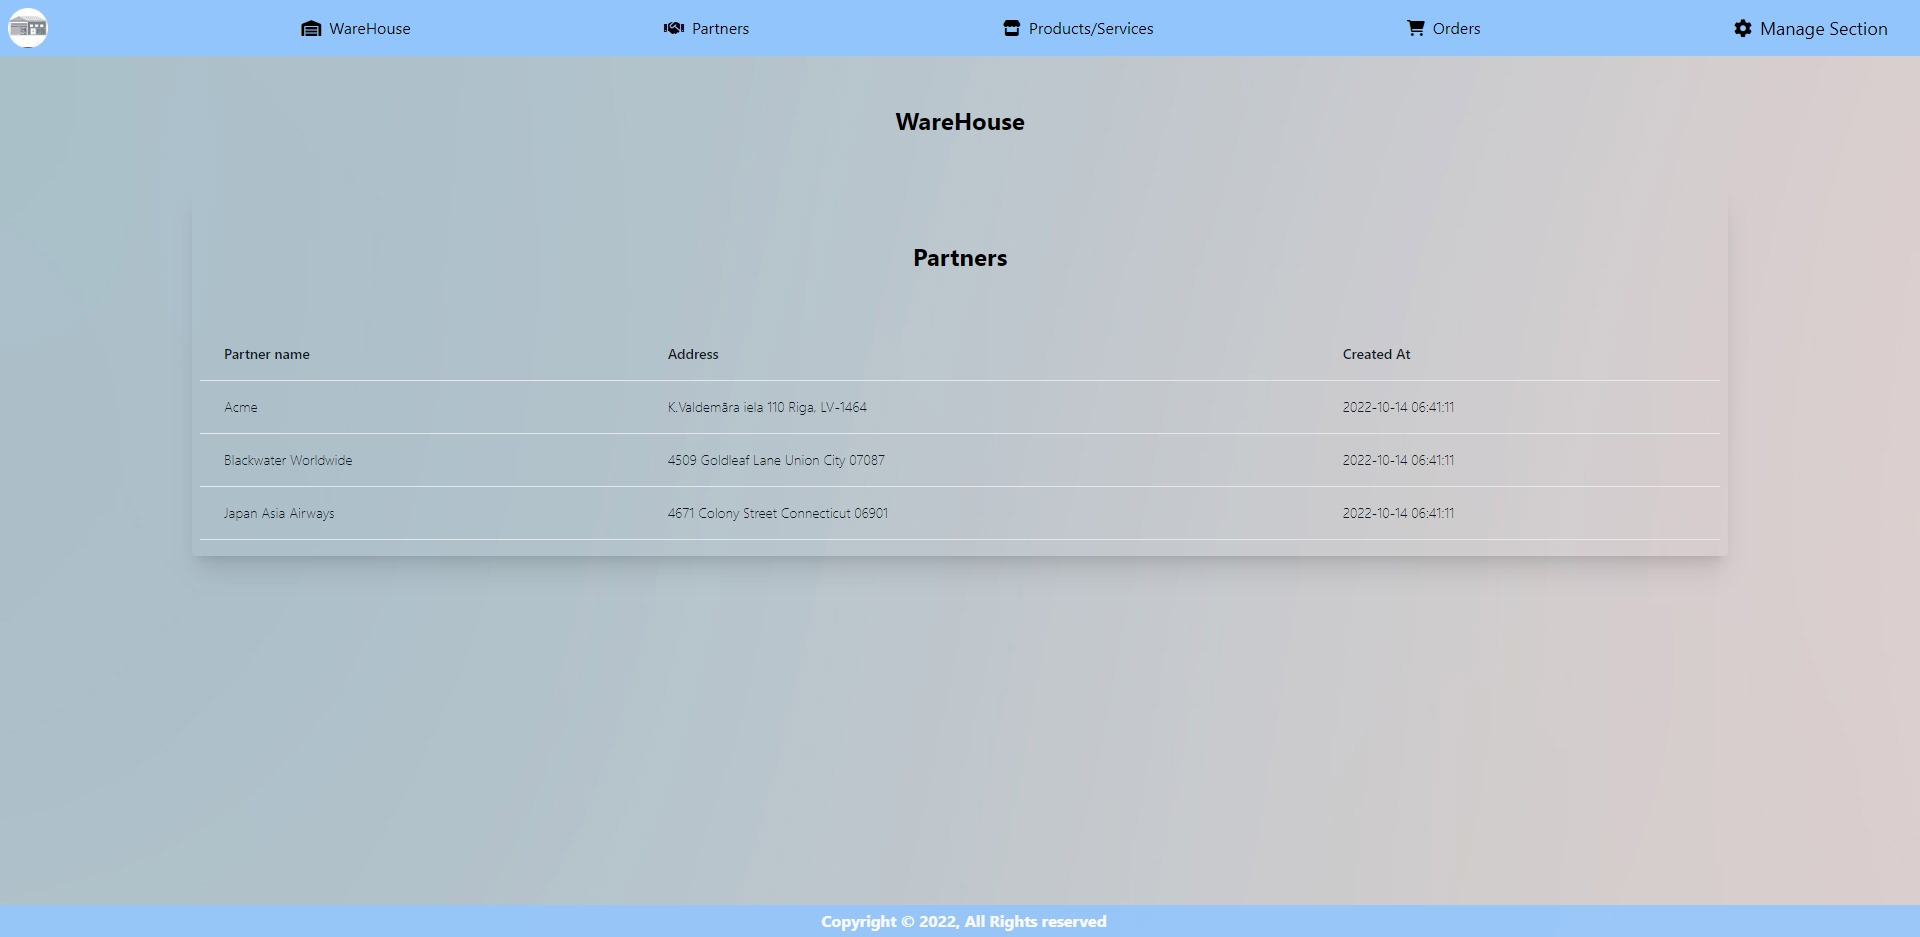
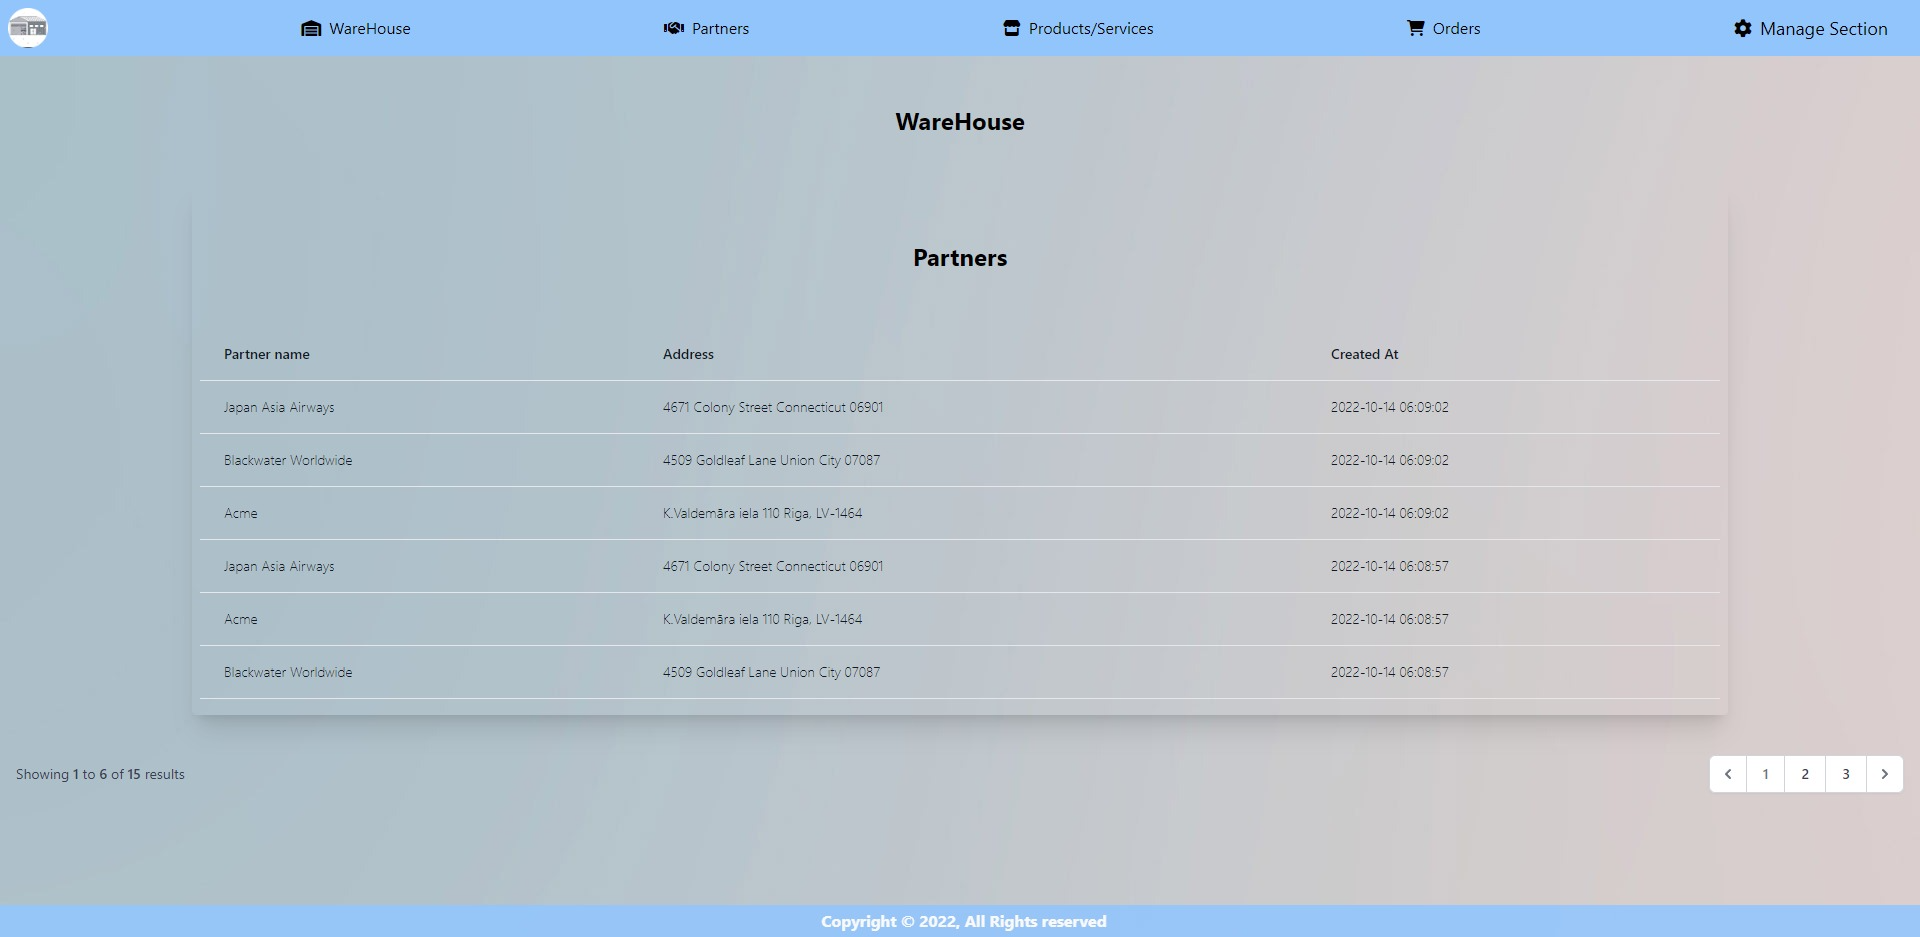
added pagination, edited description ...

diff --git a/app/Services/ProductService.php b/app/Services/ProductService.php
@@ -16,31 +16,27 @@ class ProductService
 
     public function storeProduct(CreateProductRequest $request): void
     {
-        $defaultWarehouse = Warehouse::where("id", 1)->firstorCreate(["name" => "WareHouse", "address" => 'Latvia']);
+        $defaultWarehouse = Warehouse::where("id", 1)->firstorCreate(["name" => "WareHouse", "address" => 'Latvia'])->id;
 
         Product::create([
-            [
+                'type_id' => Type::where('name', $request->type)->first()->id,
+                'warehouse_id' => $defaultWarehouse,
                 'name' => $request->name,
                 'type' => $request->type,
                 'price' => $request->price,
-                'description' => $request->description,
                 'quantity' => $request->quantity,
-                'type_id' => Type::where('name', $_POST['type'])->first()->id,
-                'warehouse_id' => $defaultWarehouse->id
-            ]
+                'description' => $request->description
         ]);
     }
 
     public function updateProduct(Product $product, UpdateProductRequest $request): void
     {
         $product->update([
-            [
                 'name' => $request->name,
                 'type' => $request->type,
                 'price' => $request->price,
                 'description' => $request->description,
                 "quantity" => $request->quantity
-            ]
         ]);
     }
 

diff --git a/app/Http/Requests/CreateTypeRequest.php b/app/Http/Requests/CreateTypeRequest.php
@@ -11,9 +11,9 @@ class CreateTypeRequest extends FormRequest
      *
      * @return bool
      */
-    public function authorize()
+    public function authorize(): bool
     {
-        return false;
+        return true;
     }
 
     /**
@@ -21,7 +21,7 @@ class CreateTypeRequest extends FormRequest
      *
      * @return array<string, mixed>
      */
-    public function rules()
+    public function rules(): array
     {
         return [
             'name' => 'required'

diff --git a/app/Http/Requests/CreateProductRequest.php b/app/Http/Requests/CreateProductRequest.php
@@ -11,7 +11,7 @@ class CreateProductRequest extends FormRequest
      *
      * @return bool
      */
-    public function authorize()
+    public function authorize(): bool
     {
         return true;
     }
@@ -21,7 +21,7 @@ class CreateProductRequest extends FormRequest
      *
      * @return array<string, mixed>
      */
-    public function rules()
+    public function rules(): array
     {
         return [
             'name' => 'required',

diff --git a/app/Http/Requests/UpdateProductRequest.php b/app/Http/Requests/UpdateProductRequest.php
@@ -11,7 +11,7 @@ class UpdateProductRequest extends FormRequest
      *
      * @return bool
      */
-    public function authorize()
+    public function authorize(): bool
     {
         return true;
     }
@@ -21,7 +21,7 @@ class UpdateProductRequest extends FormRequest
      *
      * @return array<string, mixed>
      */
-    public function rules()
+    public function rules(): array
     {
         return [
             'name' => 'required',

diff --git a/resources/views/partner/show.blade.php b/resources/views/partner/show.blade.php
@@ -131,6 +131,9 @@
                 </div>
             </div>
         </div>
+        <div class="mt-6 p-4">
+            {{$products->links() }}
+        </div>
 
         <h1 class="m-12 text-center text-2xl font-bold">Warehouse Sold Products To: {{$partner->name}}</h1>
 
@@ -204,5 +207,8 @@
                 </div>
             </div>
         </div>
+    </div>
+    <div class="mt-6 p-4">
+        {{$orders->links() }}
     </div>
 </x-layout>

diff --git a/app/Http/Requests/UpdateTypeRequest.php b/app/Http/Requests/UpdateTypeRequest.php
@@ -11,7 +11,7 @@ class UpdateTypeRequest extends FormRequest
      *
      * @return bool
      */
-    public function authorize()
+    public function authorize(): bool
     {
         return true;
     }
@@ -21,7 +21,7 @@ class UpdateTypeRequest extends FormRequest
      *
      * @return array<string, mixed>
      */
-    public function rules()
+    public function rules(): array
     {
         return [
             'name' => 'required'

diff --git a/app/Services/TypeService.php b/app/Services/TypeService.php
@@ -4,6 +4,7 @@
 namespace App\Services;
 
 
+use App\Http\Requests\CreateTypeRequest;
 use App\Http\Requests\UpdateTypeRequest;
 use App\Models\Type;
 
@@ -11,7 +12,7 @@ use App\Models\Type;
 class TypeService
 {
 
-    public function storeType(UpdateTypeRequest $request): void
+    public function storeType(CreateTypeRequest $request): void
     {
         Type::create([
             "name" => $request->name

diff --git a/app/Http/Controllers/PartnerController.php b/app/Http/Controllers/PartnerController.php
@@ -34,8 +34,8 @@ class PartnerController extends Controller
     {
         return view('partner.show', [
             'partner' => $partner,
-            'products' => Product::latest()->get(),
-            'orders' => $partner->order()->get(),
+            'products' => Product::latest()->paginate(6),
+            'orders' => $partner->order()->latest()->paginate(6),
         ]);
     }
 

diff --git a/app/Http/Controllers/ProductController.php b/app/Http/Controllers/ProductController.php
@@ -13,7 +13,6 @@ use App\Models\Product;
 use App\Models\Type;
 use App\Services\ProductService;
 use Illuminate\Http\RedirectResponse;
-use Illuminate\Http\Request;
 use Illuminate\View\View;
 use Throwable;
 
